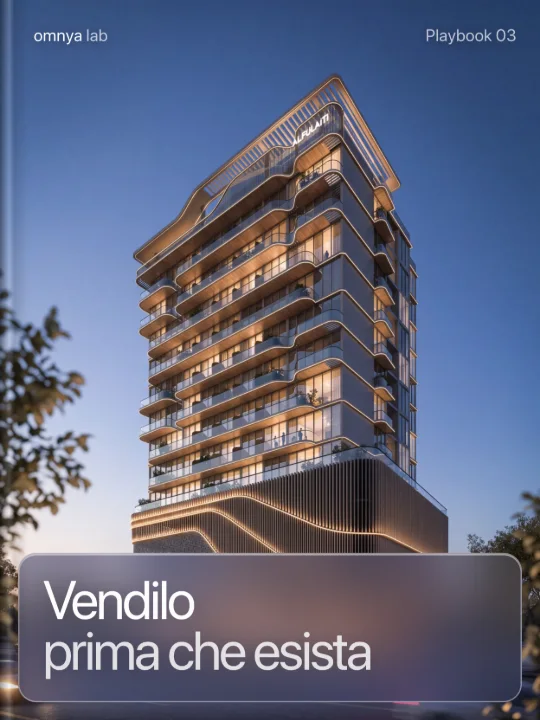
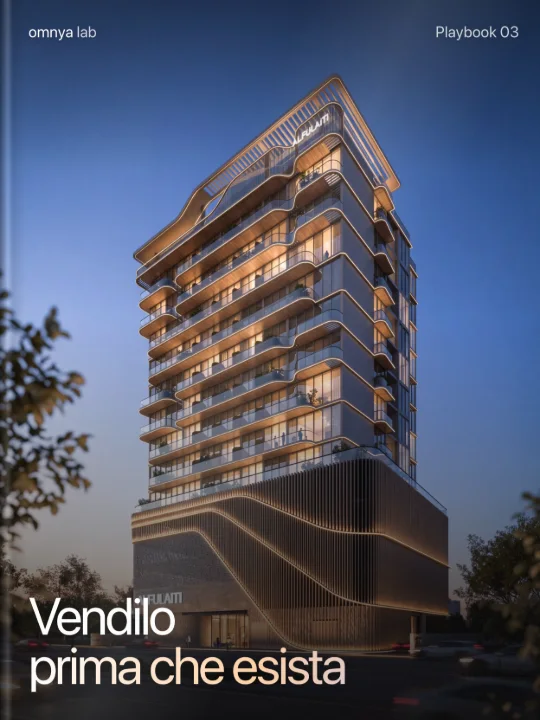
Nico's picks: Burtville hero with our 3D, new covers (white + photo colours), B1 bundle, S1 Skool, K1 kit fan, W5 titles, L3 lessons, P3 price list
- /learn opens on Burtville: towers, night and living room, each a camera-matched
  clay model against the final image; the reel pages keep Casa Cresta
- Playbook covers: towers fading from our 3D to the photo, rooftop at sunset,
  Elan Tower; first title line white, second in the picture's colours
- Bundle: big fan of the three books, 79 with 107 struck and the saving
- Skool logo on its own line, tight to the title
- Studio kit: four books fanned like cards, price chip on hover, Free on the portfolio
- Poster titles in warm ink blended into the photo
- Lessons: frosted glass cards over a darkened photo
- Pricing: the three tables on a darkened photo, each row one sheet of glass

diff --git a/src/styles/global.css b/src/styles/global.css
@@ -2001,3 +2001,149 @@ html[lang='it'] .ptable__each[data-label]::after { content: ' a vista'; }
   transition: opacity 0.8s var(--ease), transform 1.2s var(--ease);
 }
 @media (hover: hover) and (pointer: fine) { .kit__item:hover .kit__card::before { transform: translateX(8%); } }
+
+/* ---------- Learn, third pass (Nico's picks: covers T1+T2, B1, S1, L3) ---------- */
+/* the cover: graded picture, spine, white first line, second line in the picture's colours */
+.bk { position: relative; display: block; width: 100%; aspect-ratio: 3 / 4; overflow: hidden; border-radius: 3px 8px 8px 3px; color: #fff; background: #1a1917; }
+.bk__img { position: absolute; inset: 0; width: 100%; height: 100%; object-fit: cover; filter: saturate(1.08) contrast(1.06) brightness(1.02); }
+.bk--fade .bk__real { -webkit-mask-image: linear-gradient(to top right, transparent 28%, #000 72%); mask-image: linear-gradient(to top right, transparent 28%, #000 72%); }
+.bk__grade { position: absolute; inset: 0; pointer-events: none;
+  background:
+    linear-gradient(90deg, rgba(0, 0, 0, 0.36) 0, rgba(255, 255, 255, 0.16) 6px, rgba(0, 0, 0, 0.1) 10px, transparent 20px),
+    linear-gradient(115deg, transparent 35%, rgba(255, 255, 255, 0.1) 48%, transparent 62%),
+    linear-gradient(180deg, rgba(10, 10, 10, 0.42) 0%, rgba(10, 10, 10, 0) 24%, rgba(10, 10, 10, 0) 44%, rgba(10, 10, 10, 0.84) 100%),
+    radial-gradient(120% 90% at 50% 40%, transparent 55%, rgba(10, 8, 6, 0.26) 100%); }
+.bk__top { position: absolute; top: 16px; left: 22px; right: 16px; display: flex; justify-content: space-between; font-size: 12px; text-shadow: 0 1px 8px rgba(0, 0, 0, 0.35); }
+.bk__top > span:first-child span, .bk__top > span:last-child { opacity: 0.78; }
+.bk__t { position: absolute; left: 22px; right: 16px; bottom: 22px; font-size: clamp(2rem, 8.4vw, 2.9rem); line-height: 0.94; letter-spacing: -0.045em; text-shadow: 0 2px 16px rgba(0, 0, 0, 0.25); }
+@media (min-width: 900px) { .bk__t { font-size: clamp(1.9rem, 2.8vw, 3rem); } }
+.bk__t span { display: block; background: linear-gradient(100deg, #fff 0%, var(--c1) 46%, var(--c2) 100%); -webkit-background-clip: text; background-clip: text; color: transparent; text-shadow: none; filter: drop-shadow(0 2px 12px rgba(0, 0, 0, 0.35)); }
+/* the shelf: no white page edges, just a soft shadow; hover lifts the book */
+.lcover { position: relative; border-radius: 3px 8px 8px 3px; box-shadow: 0 34px 50px -26px rgba(30, 24, 16, 0.55), 0 14px 26px -14px rgba(30, 24, 16, 0.32); transition: transform 0.8s var(--ease), box-shadow 0.8s var(--ease); }
+@media (hover: hover) and (pointer: fine) {
+  .lcover:hover { transform: translateY(-10px) scale(1.02); box-shadow: 0 50px 70px -30px rgba(30, 24, 16, 0.55), 0 22px 36px -18px rgba(30, 24, 16, 0.35); }
+}
+@media (prefers-reduced-motion: reduce) { .lcover { transition: none; } .lcover:hover { transform: none; } }
+
+/* the bundle, B1: a big fan of the three books, the real price struck, the saving */
+.lbundle { grid-template-columns: 1fr; gap: clamp(28px, 4vw, 56px); padding: clamp(32px, 5vw, 64px); border-radius: 28px; margin-inline: 0;
+  background:
+    radial-gradient(55% 75% at 12% 30%, rgba(176, 142, 104, 0.28), transparent 70%),
+    radial-gradient(50% 70% at 50% 95%, rgba(255, 160, 120, 0.22), transparent 70%),
+    radial-gradient(55% 80% at 88% 15%, rgba(120, 130, 200, 0.22), transparent 70%), #f4f1eb; }
+@media (min-width: 900px) { .lbundle { grid-template-columns: 1.15fr 1fr; } }
+.lfan { height: clamp(320px, 34vw, 470px); }
+.lfan__book { width: clamp(150px, 16vw, 240px); aspect-ratio: 3 / 4; border-radius: 3px 8px 8px 3px; box-shadow: 0 34px 50px -26px rgba(30, 24, 16, 0.55), 0 14px 26px -14px rgba(30, 24, 16, 0.32); }
+.lfan__book .bk__t { font-size: clamp(1.1rem, 1.9vw, 1.9rem); left: 16px; bottom: 16px; }
+.lfan__book .bk__top { font-size: 10px; left: 16px; top: 12px; }
+.lfan__book--1 { transform: translate(-50%, -50%) translateX(-62%) rotate(-10deg); }
+.lfan__book--2 { transform: translate(-50%, -54%) scale(1.08); }
+.lfan__book--3 { transform: translate(-50%, -50%) translateX(62%) rotate(10deg); }
+.lbundle__copy { display: flex; flex-direction: column; align-items: flex-start; }
+.lbundle__title { margin-top: 16px; }
+.lbundle__price { display: flex; align-items: baseline; gap: 16px; margin-top: 10px; font-variant-numeric: tabular-nums; }
+.lbundle__now { font-size: var(--fs-h1); line-height: 0.9; letter-spacing: -0.05em; }
+.lbundle__was { font-size: var(--fs-h3); color: var(--mute); text-decoration-thickness: 2px; letter-spacing: -0.03em; }
+.lbundle__save { display: inline-flex; align-items: center; height: 32px; padding: 0 14px; margin-top: 10px; border-radius: 999px; background: #e7f2e9; color: #1f6b35; font-size: var(--fs-small); }
+.lbundle__text { margin-top: 16px; max-width: 36ch; color: #3a3936; font-size: var(--fs-sub); line-height: 1.35; letter-spacing: -0.02em; }
+
+/* Skool, S1 with the logo on its own line, tight to the title */
+.lcomm h2 { line-height: 0.9; }
+.lcomm__skool { height: calc(var(--fs-h1) * 0.82); margin-top: calc(var(--fs-h1) * 0.06); }
+
+/* lessons, L3: frosted glass cards over a darkened photo; one continuous glass per card */
+.lles { position: relative; overflow: hidden; color: #fff; padding-block: var(--section); padding-inline: 0; }
+.lles__bg { position: absolute; inset: 0; }
+.lles__bg img { width: 100%; height: 100%; object-fit: cover; }
+.lles__bg::after { content: ''; position: absolute; inset: 0; background: linear-gradient(180deg, rgba(10, 10, 10, 0.55) 0%, rgba(10, 10, 10, 0.38) 45%, rgba(10, 10, 10, 0.58) 100%); }
+.lles__in { position: relative; }
+.lles__title { max-width: 14ch; margin-bottom: clamp(36px, 5vw, 64px); }
+.lles__title .mute { color: rgba(255, 255, 255, 0.62); }
+.lles__grid { display: grid; gap: 18px; }
+@media (min-width: 900px) { .lles__grid { grid-template-columns: 1fr 1fr; gap: var(--g); } }
+.lles__card {
+  display: flex; flex-direction: column; align-items: flex-start; padding: clamp(26px, 3vw, 44px); border-radius: 26px; color: #fff;
+  background: linear-gradient(135deg, rgba(255, 255, 255, 0.24), rgba(255, 255, 255, 0.08));
+  border: 1px solid rgba(255, 255, 255, 0.34);
+  -webkit-backdrop-filter: blur(28px) saturate(1.5); backdrop-filter: blur(28px) saturate(1.5);
+  box-shadow: inset 0 1px 0 rgba(255, 255, 255, 0.45), 0 40px 80px -40px rgba(0, 0, 0, 0.55);
+}
+.lles__card.is-dark { background: linear-gradient(135deg, rgba(255, 255, 255, 0.24), rgba(255, 255, 255, 0.08)); }
+.lles__time { color: rgba(255, 255, 255, 0.72); }
+.lles__price { font-size: var(--fs-h1); line-height: 0.9; letter-spacing: -0.045em; margin-top: clamp(16px, 2.4vw, 32px); font-variant-numeric: tabular-nums; }
+.lles__items { list-style: none; margin: clamp(18px, 2.4vw, 28px) 0 28px; padding: 0; width: 100%; }
+.lles__items li { position: relative; padding: 12px 0 12px 30px; border-top: 1px solid rgba(255, 255, 255, 0.2); line-height: 1.4; }
+.lles__items li:last-child { border-bottom: 1px solid rgba(255, 255, 255, 0.2); }
+.lles__items li::before { content: ''; position: absolute; left: 0; top: 14px; width: 18px; height: 18px; border-radius: 50%; background: #fff; }
+.lles__items li::after { content: ''; position: absolute; left: 6px; top: 17px; width: 4px; height: 8px; border: solid var(--ink); border-width: 0 1.5px 1.5px 0; transform: rotate(45deg); }
+.lles__card .btn { margin-top: auto; }
+.lles__note { margin-top: 22px; color: rgba(255, 255, 255, 0.75); max-width: 60ch; }
+.btn--white { background: #fff; border-color: #fff; color: var(--ink); }
+.btn--white::before { background: var(--ink); }
+@media (hover: hover) { .btn--white:hover { color: #fff; border-color: #fff; } }
+.btn--glass { color: #fff; border-color: rgba(255, 255, 255, 0.45); background: rgba(255, 255, 255, 0.1); }
+.btn--glass::before { background: #fff; }
+@media (hover: hover) { .btn--glass:hover { color: var(--ink); border-color: #fff; } }
+
+/* ---------- Studio, Nico's picks: kit K1 (a fan like the bundle, price on hover) and W5 titles ---------- */
+.poster__word { color: #3b2a20; mix-blend-mode: multiply; opacity: 0.85; }
+.kit__item { position: relative; }
+.kit__chip {
+  position: absolute; left: 50%; top: 0; z-index: 5; transform: translate(-50%, -120%);
+  padding: 9px 16px; border-radius: 999px; background: var(--ink); color: #fff; font-size: var(--fs-small); white-space: nowrap;
+  box-shadow: 0 10px 24px -10px rgba(0, 0, 0, 0.5); pointer-events: none;
+}
+.kit__chip::after { content: ''; position: absolute; left: 50%; bottom: -5px; width: 10px; height: 10px; background: inherit; transform: translateX(-50%) rotate(45deg); }
+.kit__chip--free { background: #1f6b35; }
+@media (max-width: 899px) { .kit__chip { position: static; display: inline-block; transform: none; margin-bottom: 14px; } .kit__chip::after { display: none; } }
+@media (min-width: 900px) and (hover: hover) and (pointer: fine) {
+  /* four books fanned out like cards in a hand, overlapping, the middle two in front */
+  .kit__cards { padding-top: 80px; }
+  .kit__item, .kit__item--tall { width: 17vw; }
+  .kit__item + .kit__item { margin-left: -4.5vw; }
+  .kit__card { transform-origin: 50% 220%; }
+  .kit__item:nth-child(1) .kit__card { transform: rotate(-12deg); }
+  .kit__item:nth-child(2) .kit__card { transform: rotate(-4deg); }
+  .kit__item:nth-child(3) .kit__card { transform: rotate(4deg); }
+  .kit__item:nth-child(4) .kit__card { transform: rotate(12deg); }
+  .kit__item:hover .kit__card, .kit__item:focus-within .kit__card { transform: translateY(-26px) rotate(0deg); }
+  .kit__chip { opacity: 0; transform: translate(-50%, -80%); transition: opacity 0.5s var(--ease), transform 0.6s var(--ease); }
+  .kit__item:hover .kit__chip, .kit__item:focus-within .kit__chip { opacity: 1; transform: translate(-50%, -150%); }
+  /* name and link appear under the book you point at */
+  .kit__meta { position: absolute; left: 0; right: 0; top: 100%; padding: 26px 0 0; text-align: center; justify-items: center; opacity: 0; transform: translateY(-8px); transition: opacity 0.5s var(--ease), transform 0.6s var(--ease); pointer-events: none; }
+  .kit__item:first-child .kit__meta { padding-left: 0; }
+  .kit__item:hover .kit__meta, .kit__item:focus-within .kit__meta { opacity: 1; transform: none; pointer-events: auto; }
+  .kit__cards { padding-bottom: 120px; }
+  .kit__web { margin-left: 0; text-align: center; }
+}
+@media (prefers-reduced-motion: reduce) { .kit__chip, .kit__meta { transition: none; } }
+
+/* ---------- Pricing, P3: the tables on a darkened photo, every row one continuous sheet of glass ---------- */
+.pband { position: relative; overflow: hidden; color: #fff; padding-top: clamp(48px, 7vw, 96px); }
+.pband__bg { position: absolute; inset: 0; }
+.pband__bg img { width: 100%; height: 100%; object-fit: cover; }
+.pband__bg::after { content: ''; position: absolute; inset: 0; background: linear-gradient(180deg, rgba(10, 10, 10, 0.55) 0%, rgba(10, 10, 10, 0.45) 50%, rgba(10, 10, 10, 0.6) 100%); }
+.pband > .prices { position: relative; }
+.pband .prices__title .mute { color: rgba(255, 255, 255, 0.62); }
+.pband .prices__note, .pband .prices__volume { color: rgba(255, 255, 255, 0.86); }
+.pband .prices__star { color: rgba(255, 255, 255, 0.66); }
+.pband .ptable { display: block; }
+.pband .ptable tbody { display: grid; gap: 8px; }
+.pband .ptable thead th { color: rgba(255, 255, 255, 0.66); }
+.pband .ptable tbody tr {
+  margin-inline: 0; padding-inline: 20px; border: 1px solid rgba(255, 255, 255, 0.26); border-radius: 16px; color: #fff;
+  background: linear-gradient(135deg, rgba(255, 255, 255, 0.2), rgba(255, 255, 255, 0.07));
+  -webkit-backdrop-filter: blur(22px) saturate(1.5); backdrop-filter: blur(22px) saturate(1.5);
+  box-shadow: inset 0 1px 0 rgba(255, 255, 255, 0.35);
+}
+.pband .ptable tbody tr:last-child { border-bottom: 1px solid rgba(255, 255, 255, 0.26); }
+.pband .ptable tr.is-best + tr { border-top-color: rgba(255, 255, 255, 0.26); }
+.pband .ptable__each, .pband .ptable__unit { color: rgba(255, 255, 255, 0.75); }
+.pband .ptable tr.is-best { background: rgba(255, 255, 255, 0.92); background-image: none; color: var(--ink); border-color: rgba(255, 255, 255, 0.92); }
+.pband .ptable tr.is-best .ptable__each, .pband .ptable tr.is-best .ptable__unit { color: var(--mute); }
+.pband .ptable tr.is-best .ptable__pill { background: var(--ink); color: #fff; }
+@media (min-width: 900px) {
+  .pband .ptable tbody tr { padding-inline: 24px; }
+  .pband .ptable tr.is-best { margin-inline: 0; padding-inline: 24px; }
+  .pband .ptable tr.is-best .ptable__each { color: var(--ink); }
+}

diff --git a/src/i18n/index.ts b/src/i18n/index.ts
@@ -264,6 +264,7 @@ const en = {
     compareHandle: 'Drag to compare the 3D model and the final image',
     compareNote: 'Casa Cresta, Los Angeles: a house that doesn’t exist yet, seen from the same camera in the 3D and in the final image.',
     compareRooms: ['Hillside', 'Pool', 'Living room'],
+    compareRoomsB: ['Towers', 'Night', 'Living room'],
     wordA: 'You commented',
     wordNote: 'The cheat sheet is in your DMs, and this is the full playbook it comes from.',
     ladderA: 'From free',
@@ -337,6 +338,9 @@ const en = {
       },
     ],
     bundleA: 'All three',
+    bundleTitleA: 'All three',
+    bundleTitleB: 'playbooks',
+    bundleCta: 'Get all three · €79',
     bundleB: '€79',
     bundleText: 'The three playbooks together, plus two things you only get here: the full prompt files and the checklist we run before every delivery.',
     bundleMath: 'Bought one by one they cost €107, together €79.',
@@ -433,6 +437,7 @@ const en = {
   },
   kit: {
     portfolio: 'Portfolio, prices and how we work',
+    free: 'Free',
     howWeWork: 'How we work',
     prices: 'Price list 2026',
   },
@@ -719,6 +724,7 @@ const it: Dict = {
     compareHandle: 'Trascina per confrontare il modello 3D e l’immagine finale',
     compareNote: 'Casa Cresta, Los Angeles: una casa che non esiste ancora, vista dalla stessa camera nel 3D e nell’immagine finale.',
     compareRooms: ['Collina', 'Piscina', 'Soggiorno'],
+    compareRoomsB: ['Torri', 'Notte', 'Soggiorno'],
     wordA: 'Hai commentato',
     wordNote: 'La cheat sheet è nei tuoi DM, e questo è il playbook completo da cui arriva.',
     ladderA: 'Dal gratis',
@@ -792,6 +798,9 @@ const it: Dict = {
       },
     ],
     bundleA: 'Tutti e tre',
+    bundleTitleA: 'Tutti e tre',
+    bundleTitleB: 'i playbook',
+    bundleCta: 'Prendili tutti e tre · €79',
     bundleB: '€79',
     bundleText: 'I tre playbook insieme, più due cose che trovi solo qui: i file di prompt completi e il controllo che facciamo prima di ogni consegna.',
     bundleMath: 'Comprati uno per uno costano €107, insieme €79.',
@@ -888,6 +897,7 @@ const it: Dict = {
   },
   kit: {
     portfolio: 'Portfolio, listino e come lavoriamo',
+    free: 'Gratis',
     howWeWork: 'Come lavoriamo',
     prices: 'Listino 2026',
   },
